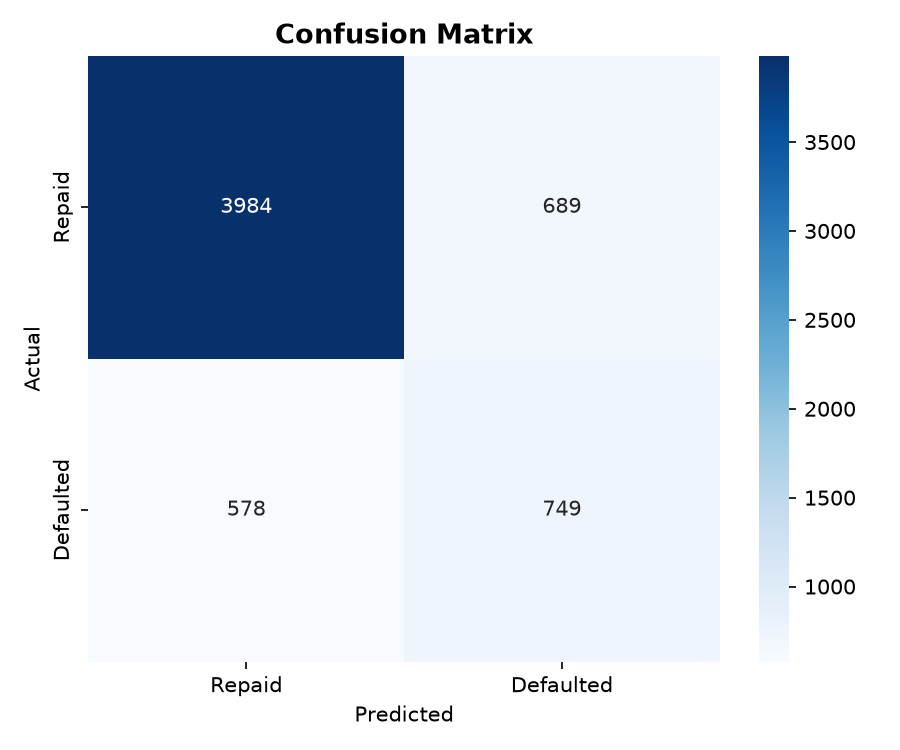
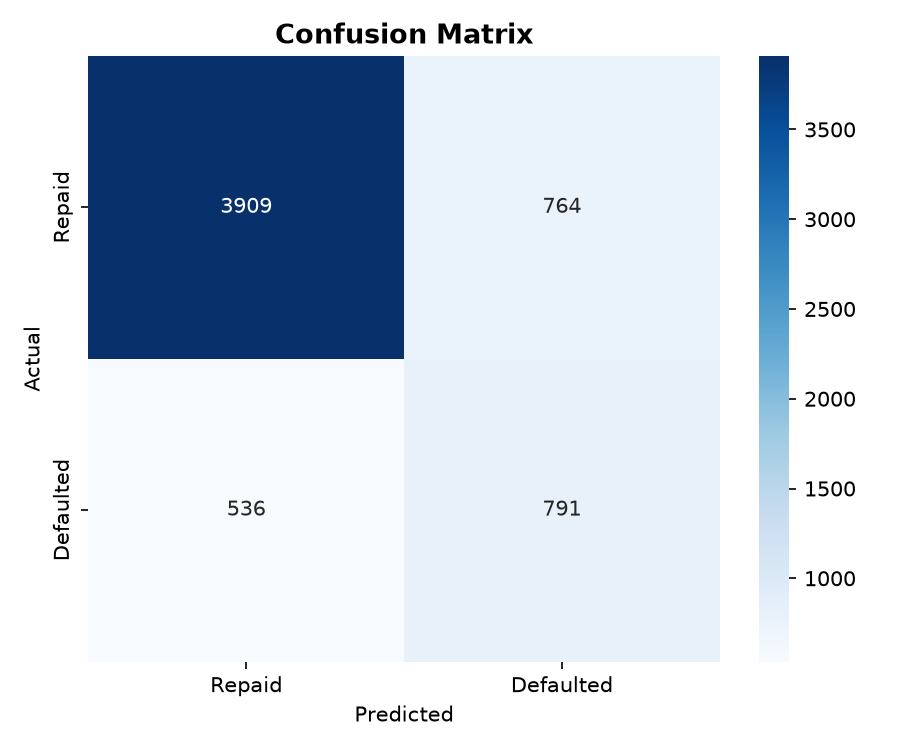
UPDATED RAG PIPELINE

diff --git a/src/rag/ingest_documents.py b/src/rag/ingest_documents.py
@@ -1,11 +1,6 @@
 # ============================================
 # RAG DOCUMENT INGESTION
 # SBP Prudential Regulations for Consumer Financing
-#
-# SBP ka server automated PDF downloads block karta hai
-# (bot detection). Yeh script ek locally-cached, verified
-# text transcription se kaam karta hai — fully reproducible,
-# koi PDF-parsing dependency nahi chahiye.
 # ============================================
 
 import re
@@ -27,23 +22,35 @@ SOURCE_CITATION = (
 )
 
 
-def load_source_text():
-    print(f"\n📂 Loading source text...")
+def load_source_text(source_path=None):
+    path = Path(source_path) if source_path else SOURCE_TXT_PATH
+    if not path.exists():
+        raise FileNotFoundError(f"❌ Source file not found: {path}")
+
+    print(f"\n📂 Loading source text from: {path}")
     print(f"📚 Source: {SOURCE_CITATION}")
-    text = SOURCE_TXT_PATH.read_text(encoding="utf-8")
-    text = text.split("PRUDENTIAL REGULATIONS \nFOR \nCONSUMER FINANCING", 1)[1]
+    text = path.read_text(encoding="utf-8")
+
+    if "PRUDENTIAL REGULATIONS \nFOR \nCONSUMER FINANCING" in text:
+        text = text.split("PRUDENTIAL REGULATIONS \nFOR \nCONSUMER FINANCING", 1)[1]
+
     print(f"✅ Loaded {len(text):,} characters")
     return text
 
 
 def chunk_by_regulation(text):
-    print("\n✂  Chunking by regulation...")
+    print("\n✂  Chunking by regulation (sliding window method)...")
     parts = re.split(r'(REGULATION\s+[RO]-\d+)', text)
     chunks = []
 
+    chunk_size = 2000
+    overlap = 200
+    step = chunk_size - overlap
+
+    # 1. Process Intro / Definitions
     intro_text = parts[0].strip()
-    for i in range(0, len(intro_text), 1800):
-        segment = intro_text[i:i + 2000].strip()
+    for i in range(0, len(intro_text), step):
+        segment = intro_text[i : i + chunk_size].strip()
         if len(segment) > 100:
             chunks.append({
                 "id": f"intro_{len(chunks)}",
@@ -52,33 +59,57 @@ def chunk_by_regulation(text):
                 "source": SOURCE_CITATION,
             })
 
+    # 2. Process Regulation Sections
     for i in range(1, len(parts) - 1, 2):
         header = parts[i].strip()
         body = parts[i + 1].strip()
-        chunks.append({
-            "id": header.lower().replace(" ", "_").replace("-", "_"),
-            "section": header,
-            "text": f"{header}\n{body[:2500]}",
-            "source": SOURCE_CITATION,
-        })
+        base_id = header.lower().replace(" ", "_").replace("-", "_")
 
-    print(f"✅ Created {len(chunks)} chunks")
+        if len(body) <= chunk_size:
+            chunks.append({
+                "id": base_id,
+                "section": header,
+                "text": f"{header}\n{body}",
+                "source": SOURCE_CITATION,
+            })
+        else:
+            part_num = 1
+            for j in range(0, len(body), step):
+                segment = body[j : j + chunk_size].strip()
+                if len(segment) > 50:
+                    chunks.append({
+                        "id": f"{base_id}_part_{part_num}",
+                        "section": f"{header} (Part {part_num})",
+                        "text": f"{header}\n{segment}",
+                        "source": SOURCE_CITATION,
+                    })
+                    part_num += 1
+
+    print(f"✅ Created {len(chunks)} complete chunks without data loss.")
     return chunks
 
 
-def save_chunks(chunks):
-    with open(CHUNKS_PATH, "w", encoding="utf-8") as f:
+def save_chunks(chunks, destination_path=None):
+    dest = Path(destination_path) if destination_path else CHUNKS_PATH
+    with open(dest, "w", encoding="utf-8") as f:
         json.dump(chunks, f, indent=2, ensure_ascii=False)
-    print(f"💾 Saved → {CHUNKS_PATH}")
+    print(f"💾 Saved → {dest}")
+
+
+def load_and_chunk_documents(source_dir=None):
+    """
+    Unified ingestion wrapper designed for rag_pipeline.py integration.
+    """
+    source_file = Path(source_dir) / "sbp_consumer_financing_source.txt" if source_dir else SOURCE_TXT_PATH
+    text = load_source_text(source_file)
+    chunks = chunk_by_regulation(text)
+    save_chunks(chunks)
+    return chunks
 
 
 if __name__ == "__main__":
-    if not SOURCE_TXT_PATH.exists():
-        print(f"❌ Source file nahi mili: {SOURCE_TXT_PATH}")
-        raise SystemExit(1)
-
-    text = load_source_text()
-    chunks = chunk_by_regulation(text)
-    save_chunks(chunks)
-
-    print(f"\n🎉 INGESTION COMPLETE! {len(chunks)} chunks ready.")
+    try:
+        chunks = load_and_chunk_documents()
+        print(f"\n🎉 INGESTION COMPLETE! {len(chunks)} chunks ready.")
+    except Exception as exc:
+        print(f"❌ Ingestion failed: {exc}")

diff --git a/src/agents/compilance_agent.py b/src/agents/compilance_agent.py
@@ -1,11 +1,14 @@
 from constants import LLM_MODEL
-from resources import load_compliance_resources
+from utils.resources import load_compliance_resources
 from state import UnderwritingState
 
-
+# OPTIMIZATION: Load heavy ML models and vector index once globally, 
+# rather than on every single agent execution.
+INDEX, CHUNKS, EMBED_MODEL, LLM_CLIENT = load_compliance_resources()
 
 def build_compliance_query(state: UnderwritingState) -> str:
     flags = state.get("sbp_flags", {})
+    
     if flags.get("exceeds_r8_aggregate_cap"):
         return (
             "What SBP regulation applies when a customer's aggregate clean "
@@ -16,26 +19,36 @@ def build_compliance_query(state: UnderwritingState) -> str:
             "What SBP regulation applies when a customer's clean credit "
             "card limit exceeds Rs 2,000,000?"
         )
+        
+    # SAFETY: Use safe .get() with fallback defaults to prevent KeyErrors
+    decision = state.get("risk_decision", "review").lower()
+    applicant = state.get("applicant", {})
+    credit_limit = applicant.get("LIMIT_BAL", "N/A")
+    
     return state.get("compliance_question") or (
-        f"What SBP regulations apply when a bank {state['risk_decision'].lower()}s "
-        f"a consumer financing application with credit limit "
-        f"{state['applicant'].get('LIMIT_BAL', 'N/A')}?"
+        f"What SBP regulations apply when a bank {decision}s "
+        f"a consumer financing application with credit limit {credit_limit}?"
     )
+
 def compliance_agent(state: UnderwritingState) -> dict:
     print("📖 [Compliance Agent] Checking SBP regulations...")
-    index, chunks, embed_model, llm_client = load_compliance_resources()
+    
     query = build_compliance_query(state)
-    query_vector = embed_model.encode([query], convert_to_numpy=True).astype("float32")
-    _, indices = index.search(query_vector, 3)
-    retrieved = [chunks[i] for i in indices[0]]
+    
+    # Vector search using the globally loaded model and index
+    query_vector = EMBED_MODEL.encode([query], convert_to_numpy=True).astype("float32")
+    _, indices = INDEX.search(query_vector, 3)
+    
+    retrieved = [CHUNKS[i] for i in indices[0]]
     context = "\n\n".join([f"[{c['section']}]\n{c['text']}" for c in retrieved])
-    if llm_client is None:
+    
+    if LLM_CLIENT is None:
         answer = (
             "LLM is not configured (missing GROQ_API_KEY). "
             "Showing retrieved regulation text instead:\n\n" + context
         )
     else:
-        completion = llm_client.chat.completions.create(
+        completion = LLM_CLIENT.chat.completions.create(
             model=LLM_MODEL,
             messages=[
                 {
@@ -53,7 +66,9 @@ def compliance_agent(state: UnderwritingState) -> dict:
             temperature=0.1,
         )
         answer = completion.choices[0].message.content
+        
     print(f"   → Checked against {len(retrieved)} regulations")
+    
     return {
         "compliance_question": query,
         "compliance_answer": answer,

diff --git a/src/utils/features.py b/src/utils/features.py
@@ -1,23 +1,27 @@
 def engineer_features(raw: dict) -> dict:
     """Turn raw applicant fields into the same engineered features used at training time."""
+    
+    # Extract lists of values
     bill_cols = [raw[f"BILL_AMT{i}"] for i in range(1, 7)]
     pay_amt_cols = [raw[f"PAY_AMT{i}"] for i in range(1, 7)]
     pay_status_cols = [raw["PAY_0"]] + [raw[f"PAY_{i}"] for i in range(2, 7)]
-    avg_bill = sum(bill_cols) / 6
-    utilization_ratio = round(avg_bill / raw["LIMIT_BAL"], 4) if raw["LIMIT_BAL"] else 0.0
-    avg_pay_delay = round(sum(pay_status_cols) / 6, 3)
-    max_pay_delay = max(pay_status_cols)
-    months_late = sum(1 for p in pay_status_cols if p > 0)
-    total_paid = sum(pay_amt_cols)
+    
+    # Calculate aggregates first to avoid redundant loops
     total_billed = sum(bill_cols)
-    payment_ratio = round(total_paid / total_billed, 4) if total_billed > 0 else 1.0
-    delay_trend = raw["PAY_0"] - raw["PAY_6"]
+    total_paid = sum(pay_amt_cols)
+    n_months = len(bill_cols)
+    
+    # Calculate ratios and averages using the pre-computed totals
+    avg_bill = total_billed / n_months
+    utilization_ratio = round(avg_bill / raw["LIMIT_BAL"], 4) if raw["LIMIT_BAL"] else 0.0
+    payment_ratio = round(total_paid / total_billed, 4) if total_billed != 0 else 1.0
+    
     return {
         **raw,
         "utilization_ratio": utilization_ratio,
-        "avg_pay_delay": avg_pay_delay,
-        "max_pay_delay": max_pay_delay,
-        "months_late": months_late,
+        "avg_pay_delay": round(sum(pay_status_cols) / n_months, 3),
+        "max_pay_delay": max(pay_status_cols),
+        "months_late": sum(1 for p in pay_status_cols if p > 0),
         "payment_ratio": payment_ratio,
-        "delay_trend": delay_trend,
-    }
+        "delay_trend": raw["PAY_0"] - raw["PAY_6"],
+    }    

diff --git a/src/agents/orchestrator.py b/src/agents/orchestrator.py
@@ -1,33 +1,17 @@
+# import os
 import pandas as pd
 
-from compliance_agent import compliance_agent
 from constants import PROJECT_ROOT
-from data_agent import data_agent
-from features import engineer_features
-from report_agent import report_agent
-from resources import preload_all
-from risk_agent import risk_agent
-from state import UnderwritingState
-preload_all()  # preload models and resources for all agents
+from utils.resources import preload_all
+from graph import build_graph # Import it from your dedicated graph file!
 
-def build_graph():
-    workflow = StateGraph(UnderwritingState)
-    workflow.add_node("data_agent", data_agent)
-    workflow.add_node("risk_agent", risk_agent)
-    workflow.add_node("compliance_agent", compliance_agent)
-    workflow.add_node("report_agent", report_agent)
-    workflow.add_edge(START, "data_agent")
-    workflow.add_edge("data_agent", "risk_agent")
-    workflow.add_edge("risk_agent", "compliance_agent")
-    workflow.add_edge("compliance_agent", "report_agent")
-    workflow.add_edge("report_agent", END)
-    return workflow.compile()
+preload_all()  # preload models and resources for all agents
 
 if __name__ == "__main__":
     graph = build_graph()
     test_df = pd.read_csv(os.path.join(PROJECT_ROOT, "data", "processed", "test.csv"))
     sample_applicant = test_df.drop("target", axis=1).iloc[0].to_dict()
+    
     print("🚀 Running full underwriting pipeline...\n")
     result = graph.invoke({"applicant": sample_applicant})
     print(result["final_report"])
-    

diff --git a/src/rag/build_vectorstore.py b/src/rag/build_vectorstore.py
@@ -36,6 +36,20 @@ def build_local_embeddings(texts):
     return np.stack(vectors)
 
 
+def build_local_embeddings(texts, dim=384):
+    vectors = []
+    for text in texts:
+        tokens = [token.lower() for token in text.replace("\n", " ").split() if token]
+        vector = np.zeros(dim, dtype="float32")
+        for token in tokens:
+            idx = abs(hash(token)) % dim
+            vector[idx] += 1.0
+        norm = np.linalg.norm(vector)
+        if norm > 0:
+            vector = vector / norm
+        vectors.append(vector)
+    return np.stack(vectors)
+
 def load_chunks():
     print("Loading chunks...")
     if not os.path.exists(CHUNKS_PATH):

diff --git a/src/rag/query_rag.py b/src/rag/query_rag.py
@@ -29,6 +29,11 @@ def build_local_query_vector(query):
         vector = vector / norm
     return vector
 
+def retrieve_context(question, index, chunks, model, top_k=3):
+    results = search(question, index, chunks, model, top_k=top_k)
+    context = "\n\n".join([f"[{r['section']}]\n{r['text']}" for r in results])
+    sources = [r['section'] for r in results]
+    return context, sources
 
 def load_vectorstore():
     if not os.path.exists(INDEX_PATH) or not os.path.exists(METADATA_PATH):

diff --git a/src/agents/constants.py b/src/agents/constants.py
@@ -1,0 +1,7 @@
+# Default LLM model to use for compliance queries
+LLM_MODEL = "meta-llama/Llama-3.3-70B-Instruct"
+
+# You can change this to any other model you want to use
+# Examples:
+# LLM_MODEL = "gpt-4"
+# LLM_MODEL = "mistral-7b-instruct"
